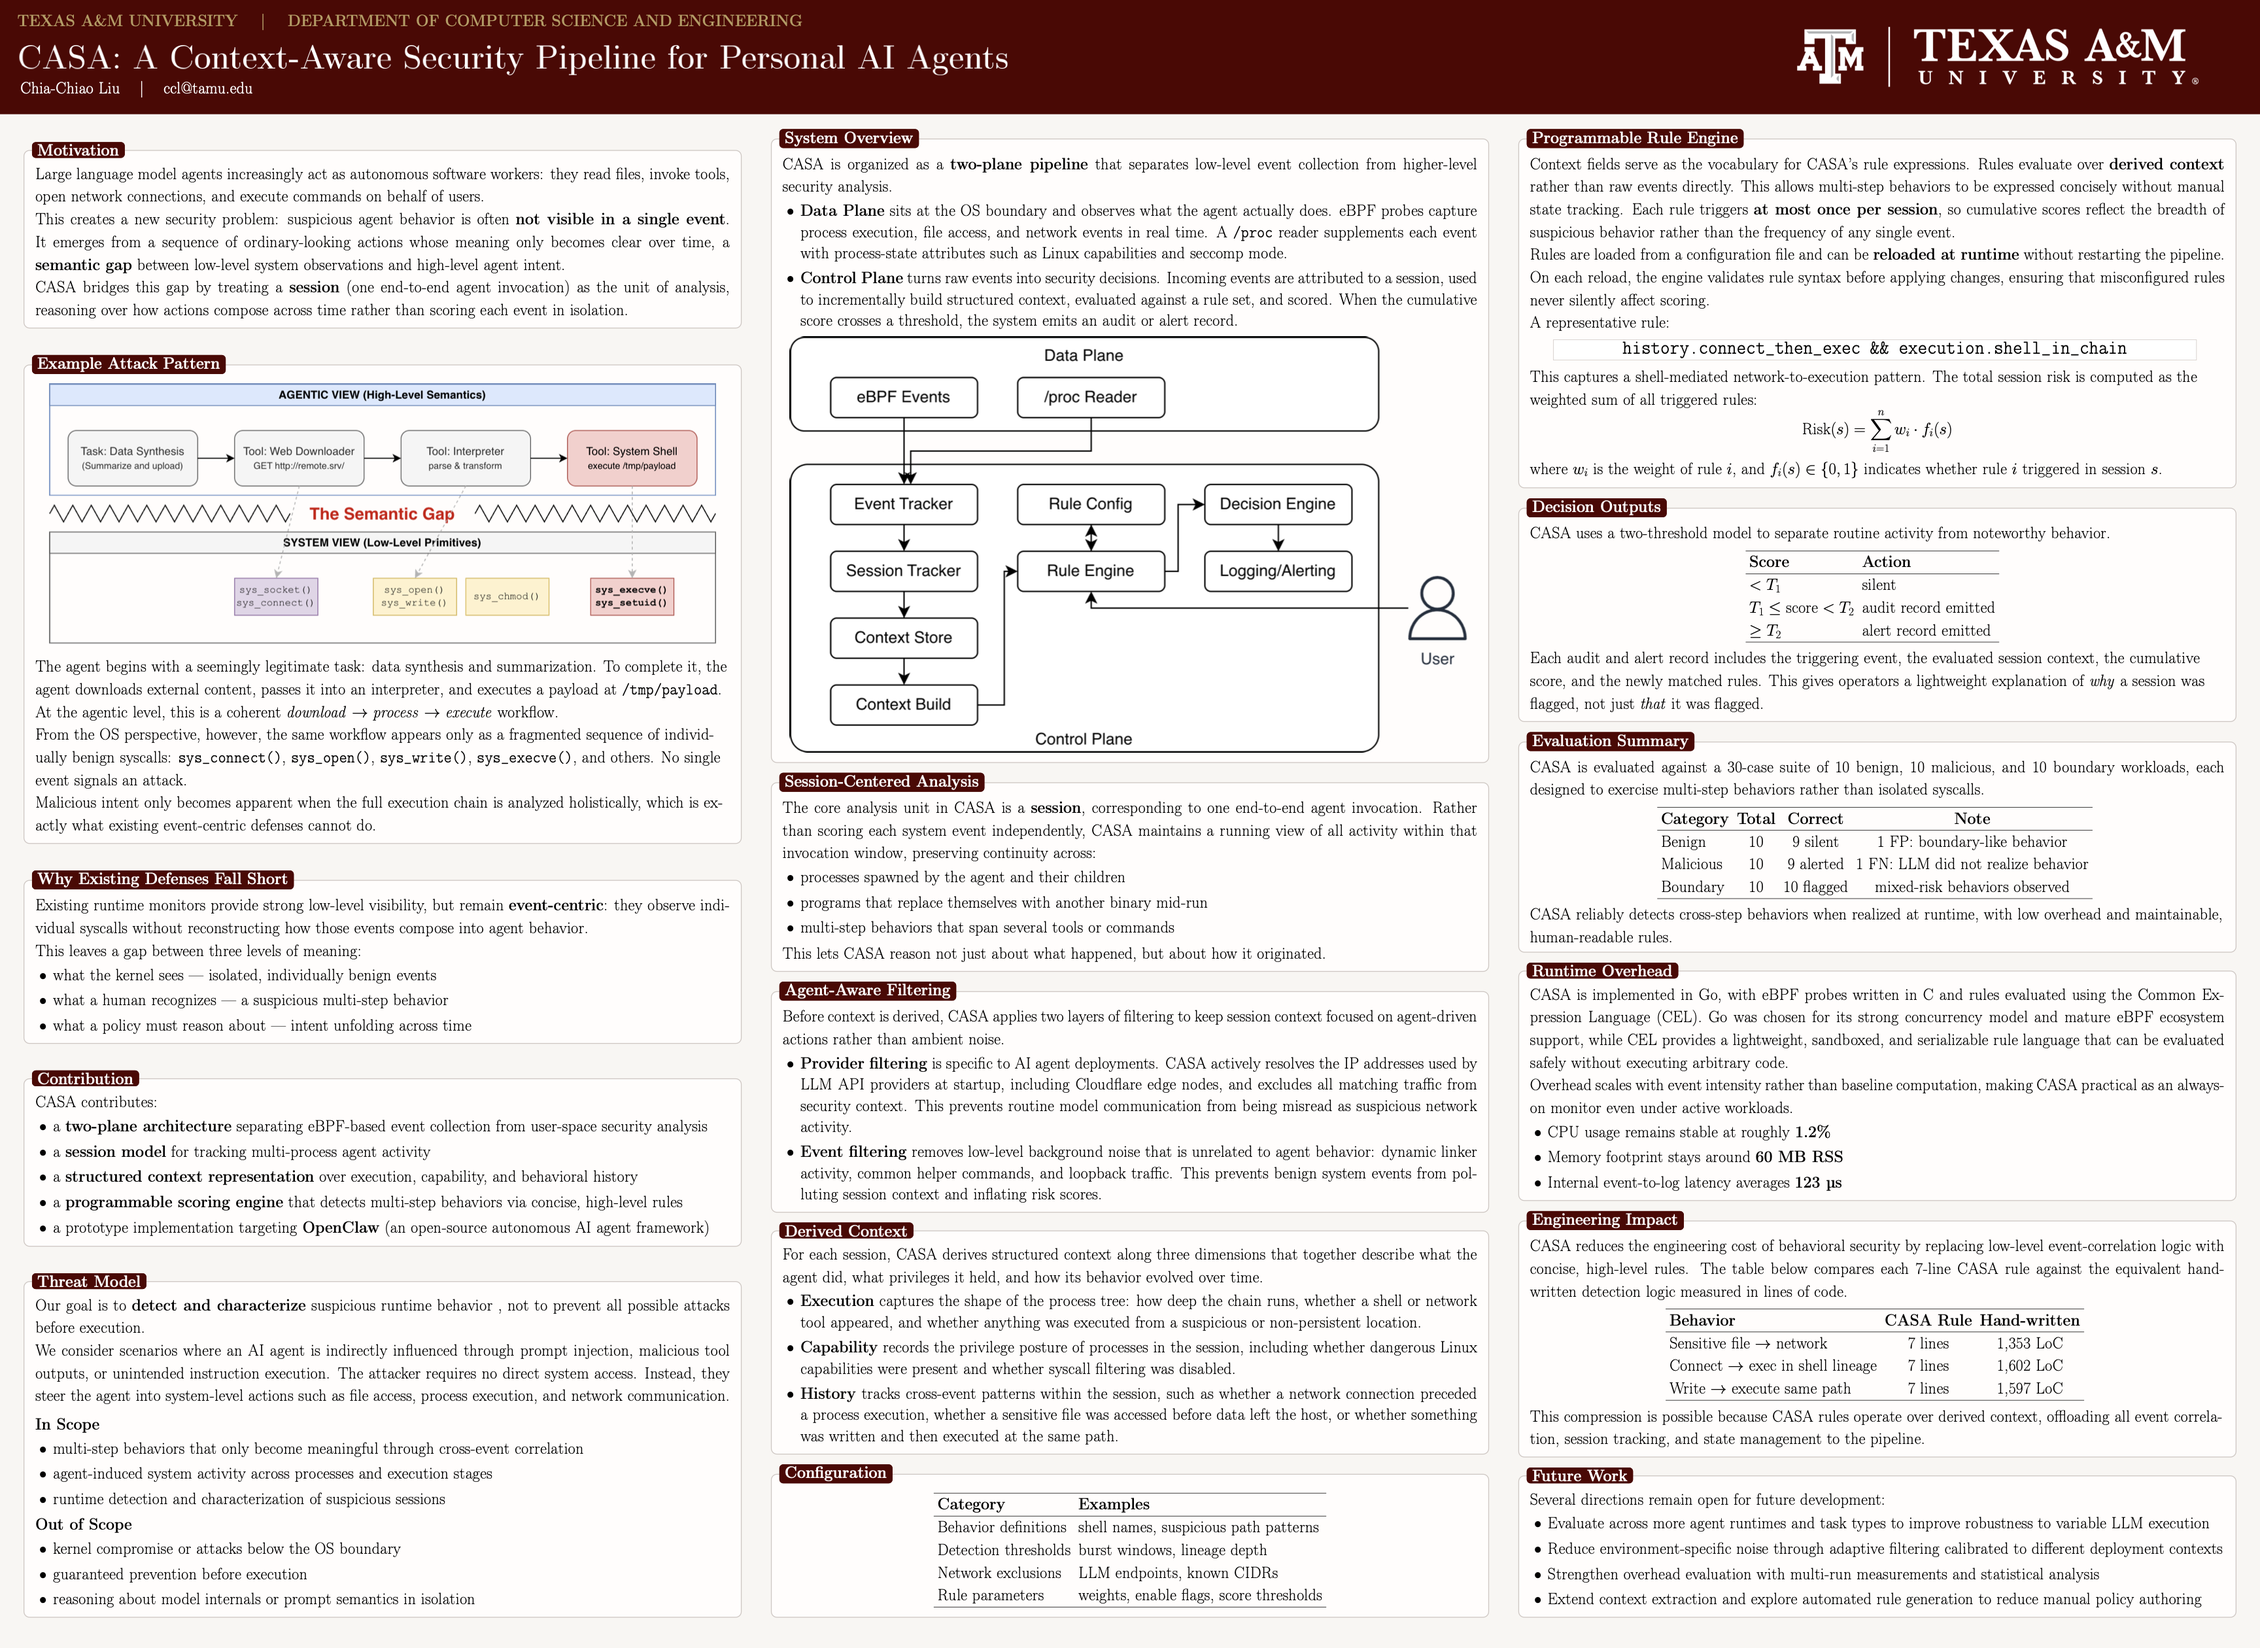
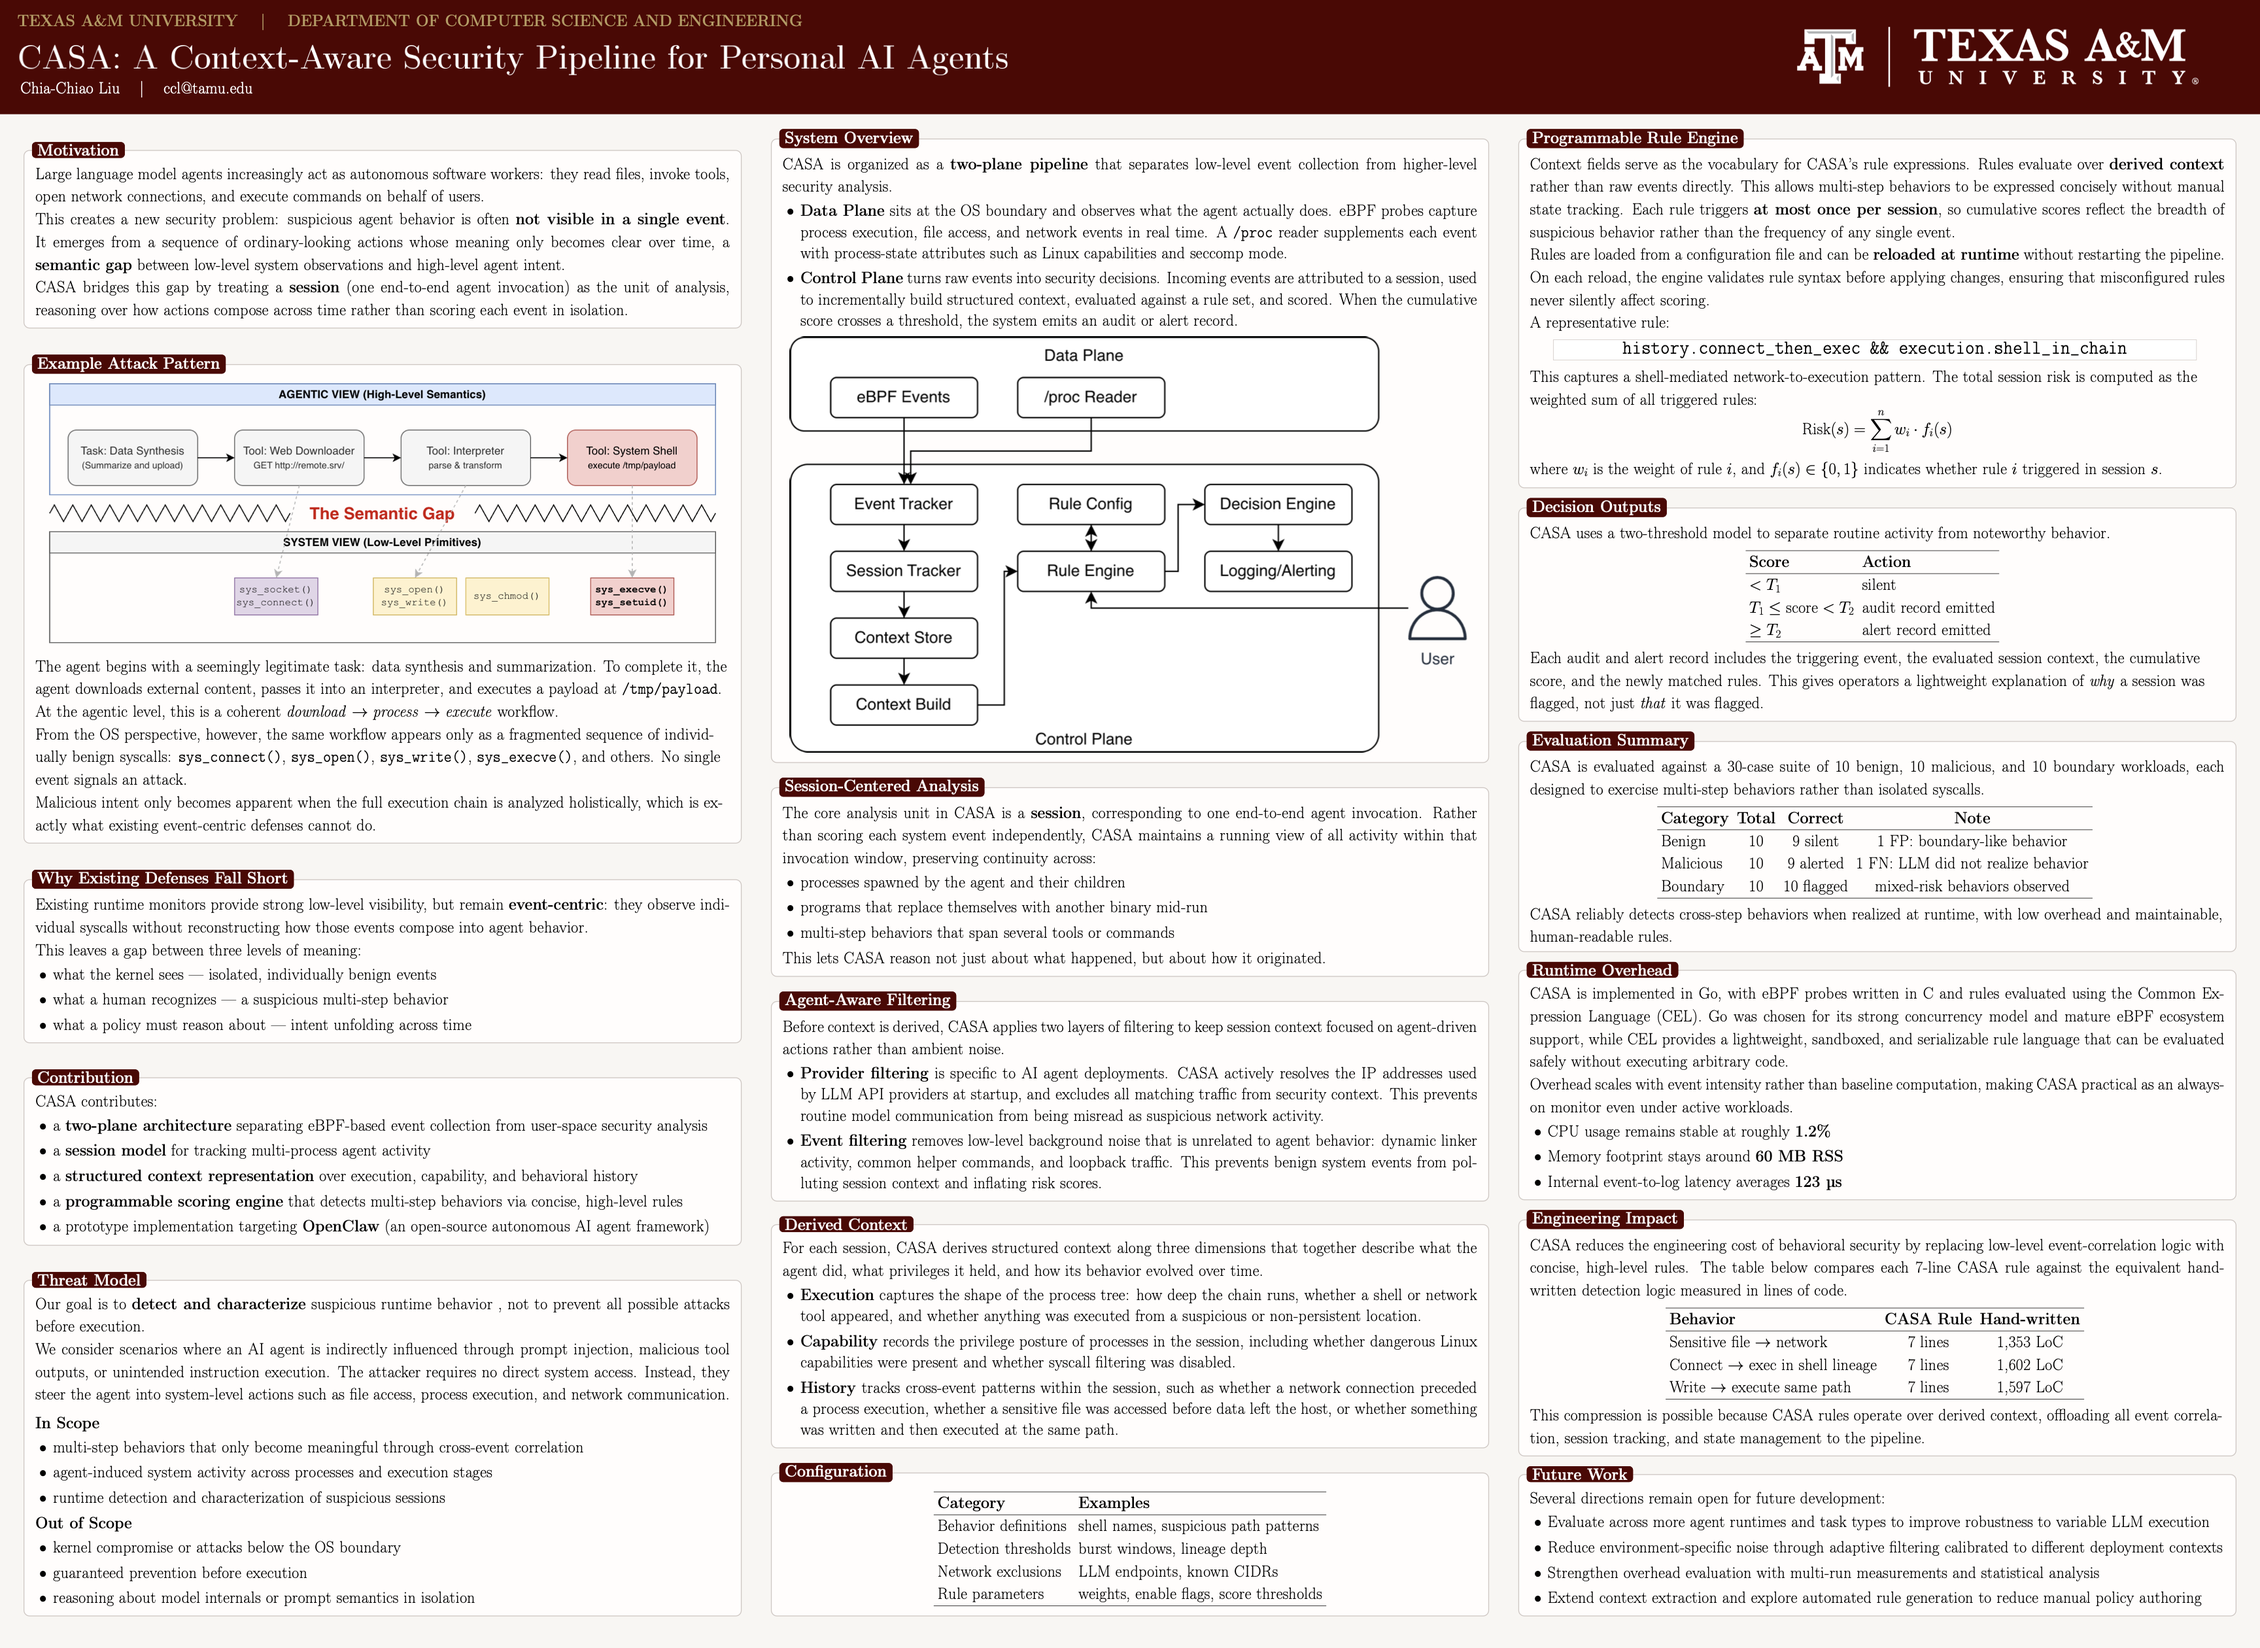
update

diff --git a/README.md b/README.md
@@ -14,35 +14,6 @@ personal-agent runtime.
 
 Full poster: [Research Poster (PDF)](evaluation/poster.pdf)
 
-## Requirements
-
-Validated baseline:
-
-```text
-OpenClaw 2026.3.24 (cff6dc9)
-Kernel 6.17.0-20-generic
-Architecture aarch64
-bpftool v7.7.0
-libbpf v1.7
-clang 20.1.8
-llc 20.1.8
-Node v24.14.1
-Go go1.24.0 linux/arm64
-Environment Ubuntu VM on VMware Fusion
-```
-
-Before running, verify:
-
-```bash
-openclaw --version
-go version
-uname -r
-```
-
-CASA currently targets the validated OpenClaw runtime listed. 
-Changes in OpenClaw execution behavior may affect session tracking
-and noise filtering heuristics.
-
 ## Quick Start
 
 1. Install OpenClaw and complete onboarding. 
@@ -66,36 +37,42 @@ To reload rules without restarting:
 kill -HUP $(cat /var/run/casa.pid)
 ```
 
-## Configuration
+## Observability
 
-Configuration lives in `user/config/rules.json`. The bundled file is a
-baseline template. Before running a real evaluation, configure at minimum:
+CASA exports traces and logs to [Jaeger](https://www.jaegertracing.io) via OpenTelemetry. Each session produces one trace span covering its full lifetime, with structured log events attached for:
 
-- `analysis.llm_provider_urls`: LLM API endpoints used by OpenClaw.
-  Required for provider filtering to work correctly.
+- `process`
+- `file`
+- `network`
+- `exit`
+- `rule matched: ...`
+- `audit emitted`
+- `alert emitted`
 
-If your environment includes non-security network traffic:
+The root session span also records the final security state for that session, including the final risk score, final decision, and the derived execution / capability / history flags that explain why the session ended in that state.
 
-- `analysis.channel_urls`: communication endpoints that should not
-  affect network-derived rules
-- `analysis.known_cidrs`: known IP ranges not reliably covered by DNS
-
-CASA resolves configured URLs at startup and refreshes them periodically
-via `analysis.configured_connect_refresh_seconds`. `known_cidrs` is
-matched directly without DNS resolution.
-
-Optional OpenTelemetry export can be enabled by pointing CASA at an OTLP
-HTTP endpoint that Jaeger accepts:
+To view traces, start a local Jaeger instance with OTLP enabled:
 
 ```bash
-export CASA_OTEL_EXPORTER_OTLP_ENDPOINT=localhost:4318
-export CASA_OTEL_SERVICE_NAME=casa
+docker run --rm --name jaeger \
+  -e COLLECTOR_OTLP_ENABLED=true \
+  -p 16686:16686 \
+  -p 4318:4318 \
+  jaegertracing/all-in-one:latest
 ```
 
-CASA will emit one root span per session, with child spans for accepted
-`EXECVE`, `OPENAT`, `CONNECT`, and `EXIT` events.
+Then configure CASA to export traces to Jaeger:
 
-For evaluation, see `evaluation/README.md`.
+```env
+CASA_OTEL_EXPORTER_OTLP_ENDPOINT=http://127.0.0.1:4318/v1/traces
+CASA_OTEL_SERVICE_NAME=casa
+```
+
+You can place these values in a repo-root `.env` file or export them in your shell before starting CASA.
+
+Then open [http://127.0.0.1:16686](http://127.0.0.1:16686), select the `casa` service, and inspect the session traces.
+
+![Jaeger trace screenshot](evaluation/jaeger.png)
 
 ## Logs
 
@@ -140,6 +117,14 @@ Example `alert.log` record:
   }
 }
 ```
+
+## Evaluation
+
+For evaluation, see [evaluation/README.md](evaluation/README.md).
+
+## Requirements
+
+See [REQUIREMENTS.md](REQUIREMENTS.md).
 
 ## Rule Configuration
 

diff --git a/REQUIREMENTS.md b/REQUIREMENTS.md
@@ -1,0 +1,45 @@
+## Requirements
+
+Validated baseline:
+```text
+OpenClaw 2026.3.24 (cff6dc9)
+Kernel 6.17.0-20-generic
+Architecture aarch64
+bpftool v7.7.0
+libbpf v1.7
+clang 20.1.8
+llc 20.1.8
+Node v24.14.1
+Go go1.24.0 linux/arm64
+Environment Ubuntu VM on VMware Fusion
+```
+
+Before running, verify:
+
+```bash
+openclaw --version
+go version
+uname -r
+```
+
+CASA currently targets the validated OpenClaw runtime listed. 
+Changes in OpenClaw execution behavior may affect session tracking
+and noise filtering heuristics.
+
+## Configuration
+
+Configuration lives in `user/config/rules.json`. The bundled file is a
+baseline template. Before running a real evaluation, configure at minimum:
+
+- `analysis.llm_provider_urls`: LLM API endpoints used by OpenClaw.
+  Required for provider filtering to work correctly.
+
+If your environment includes non-security network traffic:
+
+- `analysis.channel_urls`: communication endpoints that should not
+  affect network-derived rules
+- `analysis.known_cidrs`: known IP ranges not reliably covered by DNS
+
+CASA resolves configured URLs at startup and refreshes them periodically
+via `analysis.configured_connect_refresh_seconds`. `known_cidrs` is
+matched directly without DNS resolution.
